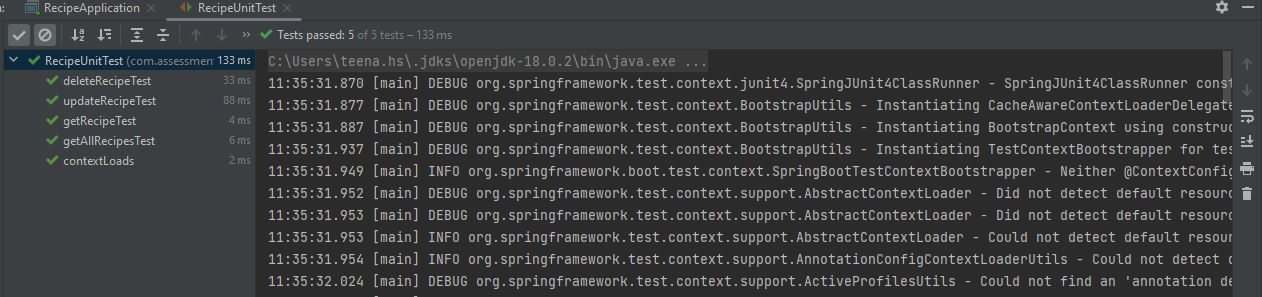
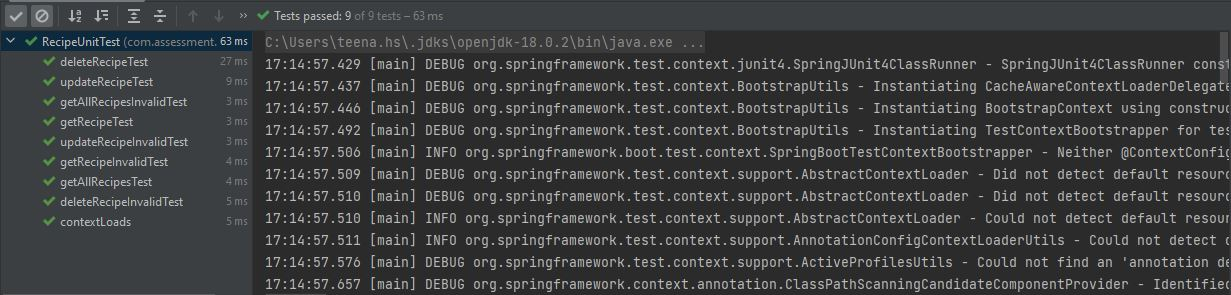
changes

diff --git a/src/test/java/com/assessment/Recipe/RecipeUnitTest.java b/src/test/java/com/assessment/Recipe/RecipeUnitTest.java
@@ -9,16 +9,14 @@ import org.junit.runner.RunWith;
 import org.springframework.beans.factory.annotation.Autowired;
 import org.springframework.boot.test.mock.mockito.MockBean;
 import org.springframework.test.context.junit4.SpringRunner;
+import java.util.ArrayList;
+import java.util.List;
 import java.util.Optional;
 import java.util.stream.Collectors;
 import java.util.stream.Stream;
-
-import static org.hamcrest.MatcherAssert.assertThat;
-import static org.hamcrest.Matchers.any;
 import static org.junit.jupiter.api.Assertions.assertEquals;
 import static org.mockito.ArgumentMatchers.anyInt;
-import static org.mockito.Mockito.verify;
-import static org.mockito.Mockito.when;
+import static org.mockito.Mockito.*;
 
 @RunWith(SpringRunner.class)
 public class RecipeUnitTest extends RecipeApplicationTests{
@@ -27,6 +25,10 @@ public class RecipeUnitTest extends RecipeApplicationTests{
     @Autowired
     private RecipeService recipeservice ;
 
+    /**
+     * Unit testcases for service class
+     * Test case to Get all recipes
+     */
     @Test
     public void getAllRecipesTest() throws RecipeException {
         when(reciperepository.findAll()).thenReturn(Stream.of(new Recipes(1, "Aloo Matar", "Veg", 3, "Potato,Onion,Tomato,Peas,Garlic,Oil,Salt,Water,Spices", "Cook Aloo matar"),
@@ -34,6 +36,9 @@ public class RecipeUnitTest extends RecipeApplicationTests{
         assertEquals(2, recipeservice.getAllRecipes().size());
     }
 
+    /**
+     * Test case to Get a particular recipe
+     */
     @Test
     public void getRecipeTest() throws RecipeException {
         Recipes recipes = new Recipes();
@@ -41,7 +46,9 @@ public class RecipeUnitTest extends RecipeApplicationTests{
         recipeservice.getRecipe(anyInt());
     }
 
-
+    /**
+     * Test case to Update a particular recipe
+     */
     @Test
     public void updateRecipeTest() throws RecipeException {
         Recipes recipe = new Recipes();
@@ -51,10 +58,76 @@ public class RecipeUnitTest extends RecipeApplicationTests{
         assertEquals(recipe,recipeservice.updateRecipe(rid,recipe.getNumberOfServings()));
     }
 
+    /**
+     * Test case to Delete a particular recipe
+     */
     @Test
     public void deleteRecipeTest() throws RecipeException {
-        reciperepository.deleteById(1);
-        verify(reciperepository).deleteById(1);
+        reciperepository.findById(anyInt());
+        verify(reciperepository).findById(anyInt());
+    }
+
+    /**
+     * Test cases for invalid scenarios
+     */
+    @Test
+    public void getAllRecipesInvalidTest() throws RecipeException{
+        List<Recipes> recipes=new ArrayList<Recipes>();
+        when(reciperepository.findAll()).thenReturn(recipes);
+        try
+        {
+            recipeservice.getAllRecipes();
+        }
+        catch(RecipeException recipe)
+        {
+            String successMessage = "Recipe not found";
+            assertEquals(successMessage, recipe.getMessage());
+        }
+    }
+
+    @Test
+    public void getRecipeInvalidTest() throws RecipeException{
+        Optional<Recipes> recipes=Optional.of(new Recipes());
+        when(reciperepository.findById(anyInt())).thenReturn(recipes);
+        try
+        {
+            recipeservice.getRecipe(anyInt());
+        }
+        catch(RecipeException recipe)
+        {
+            String successMessage = "Recipe not found";
+            assertEquals(successMessage, recipe.getMessage());
+        }
+    }
+
+    @Test
+    public void updateRecipeInvalidTest() throws RecipeException{
+        Optional<Recipes> recipes=Optional.of(new Recipes());
+        when(reciperepository.findById(1)).thenReturn(recipes);
+        try
+        {
+            recipeservice.updateRecipe(1,5);
+        }
+        catch(RecipeException recipe)
+        {
+            String successMessage = "Recipe not found";
+            assertEquals(successMessage, recipe.getMessage());
+        }
+    }
+
+    @Test
+    public void deleteRecipeInvalidTest() throws RecipeException{
+        Optional<Recipes> recipes=Optional.of(new Recipes());
+        when(reciperepository.findById(1)).thenReturn(recipes);
+        try
+        {
+            recipeservice.deleteRecipe(1);
+        }
+        catch(RecipeException recipe)
+        {
+            String successMessage = "Recipe not found";
+            assertEquals(successMessage, recipe.getMessage());
+        }
     }
 
 }

diff --git a/src/main/java/com/assessment/Recipe/service/RecipeServiceImpl.java b/src/main/java/com/assessment/Recipe/service/RecipeServiceImpl.java
@@ -57,7 +57,6 @@ public class RecipeServiceImpl implements RecipeService {
         Optional<Recipes> searchRecipe = reciperepository.findById(RID);
         Recipes updateRecipe = searchRecipe.orElseThrow(() -> new RecipeException("Service.RECIPE_NOT_FOUND"));
         updateRecipe.setNumberOfServings(numberofservings);
-        //System.out.println("Getting data from DB :");
         return updateRecipe;
     }
 

diff --git a/src/test/java/com/assessment/Recipe/RecipesIntegrationTest.java b/src/test/java/com/assessment/Recipe/RecipesIntegrationTest.java
@@ -19,6 +19,10 @@ public class RecipesIntegrationTest extends RecipeApplicationTests {
     public void setup() {
         mvc = MockMvcBuilders.webAppContextSetup(webApplicationContext).build();
     }
+
+    /**
+     * Integration testcases
+     */
     @Test
     public void recipeList() throws Exception {
         mvc.perform(MockMvcRequestBuilders
